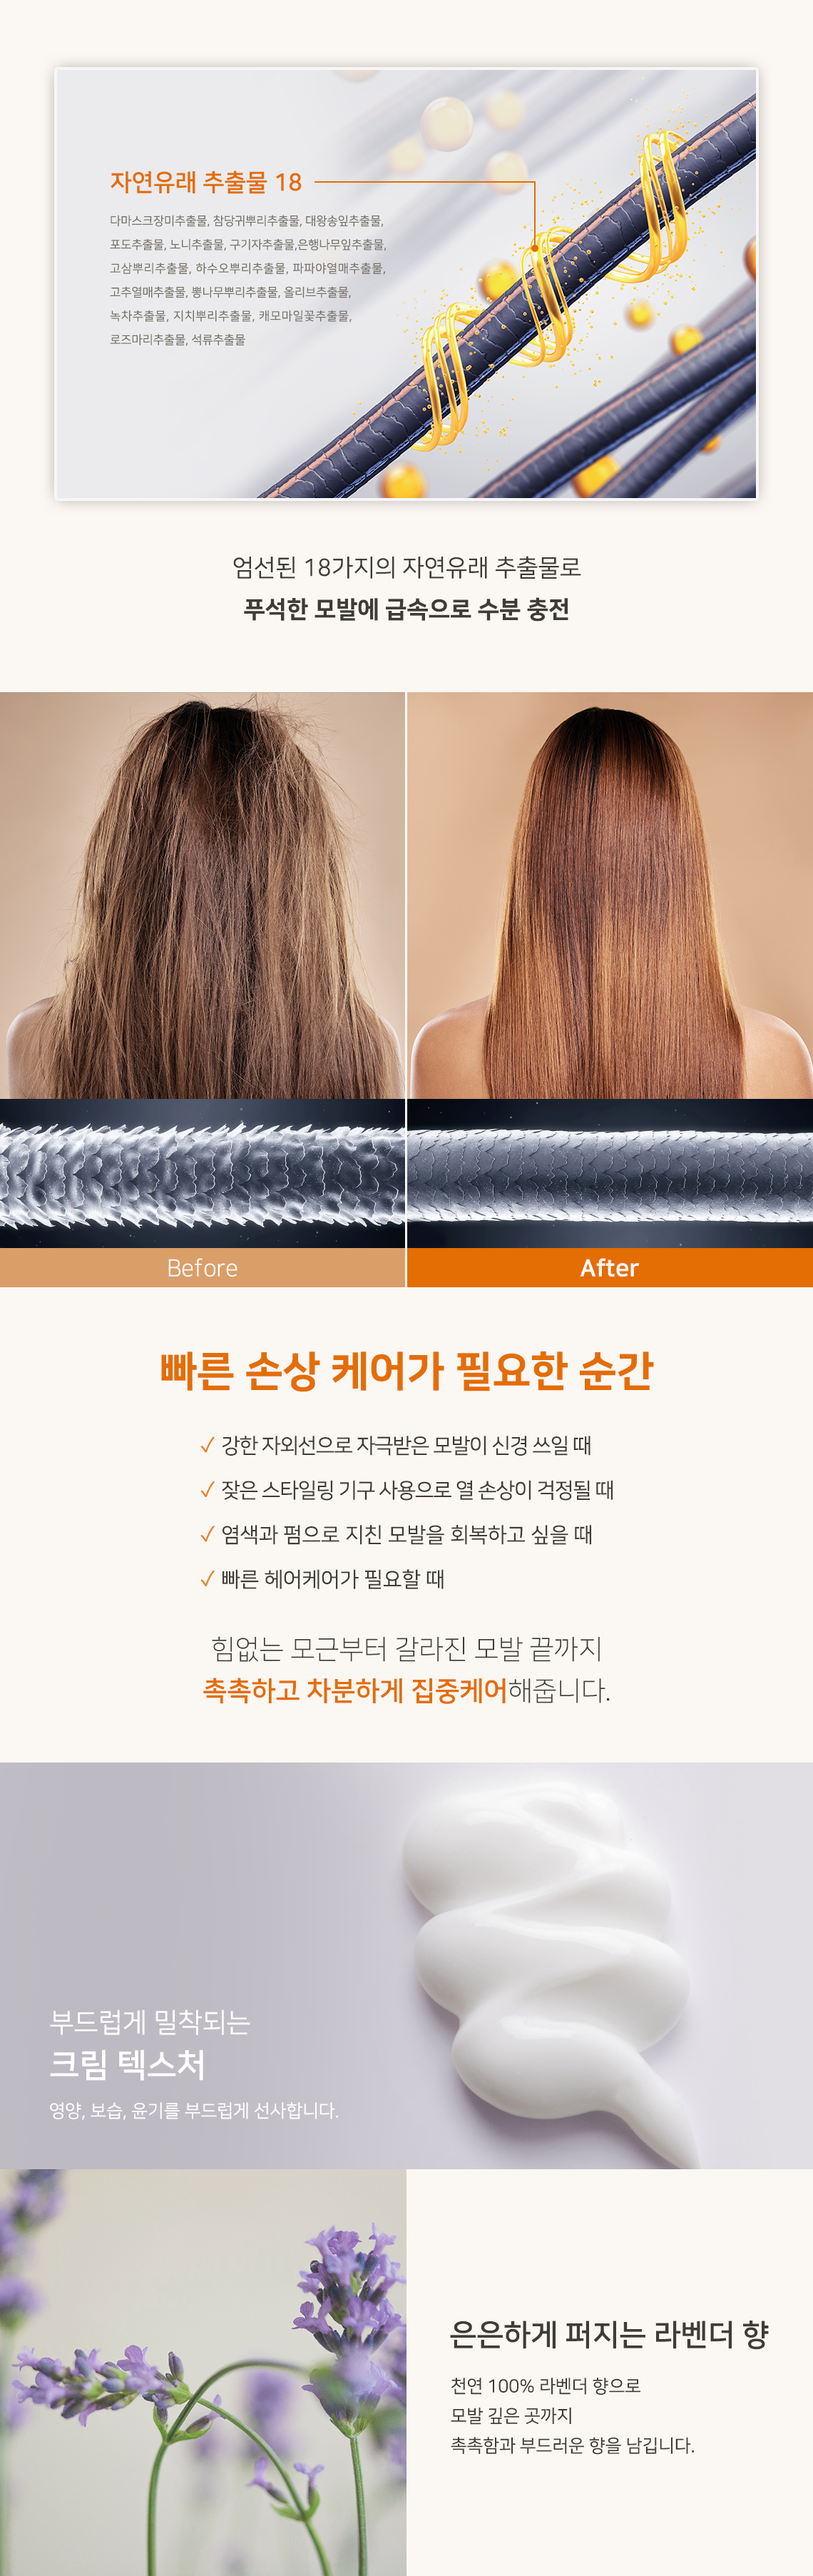
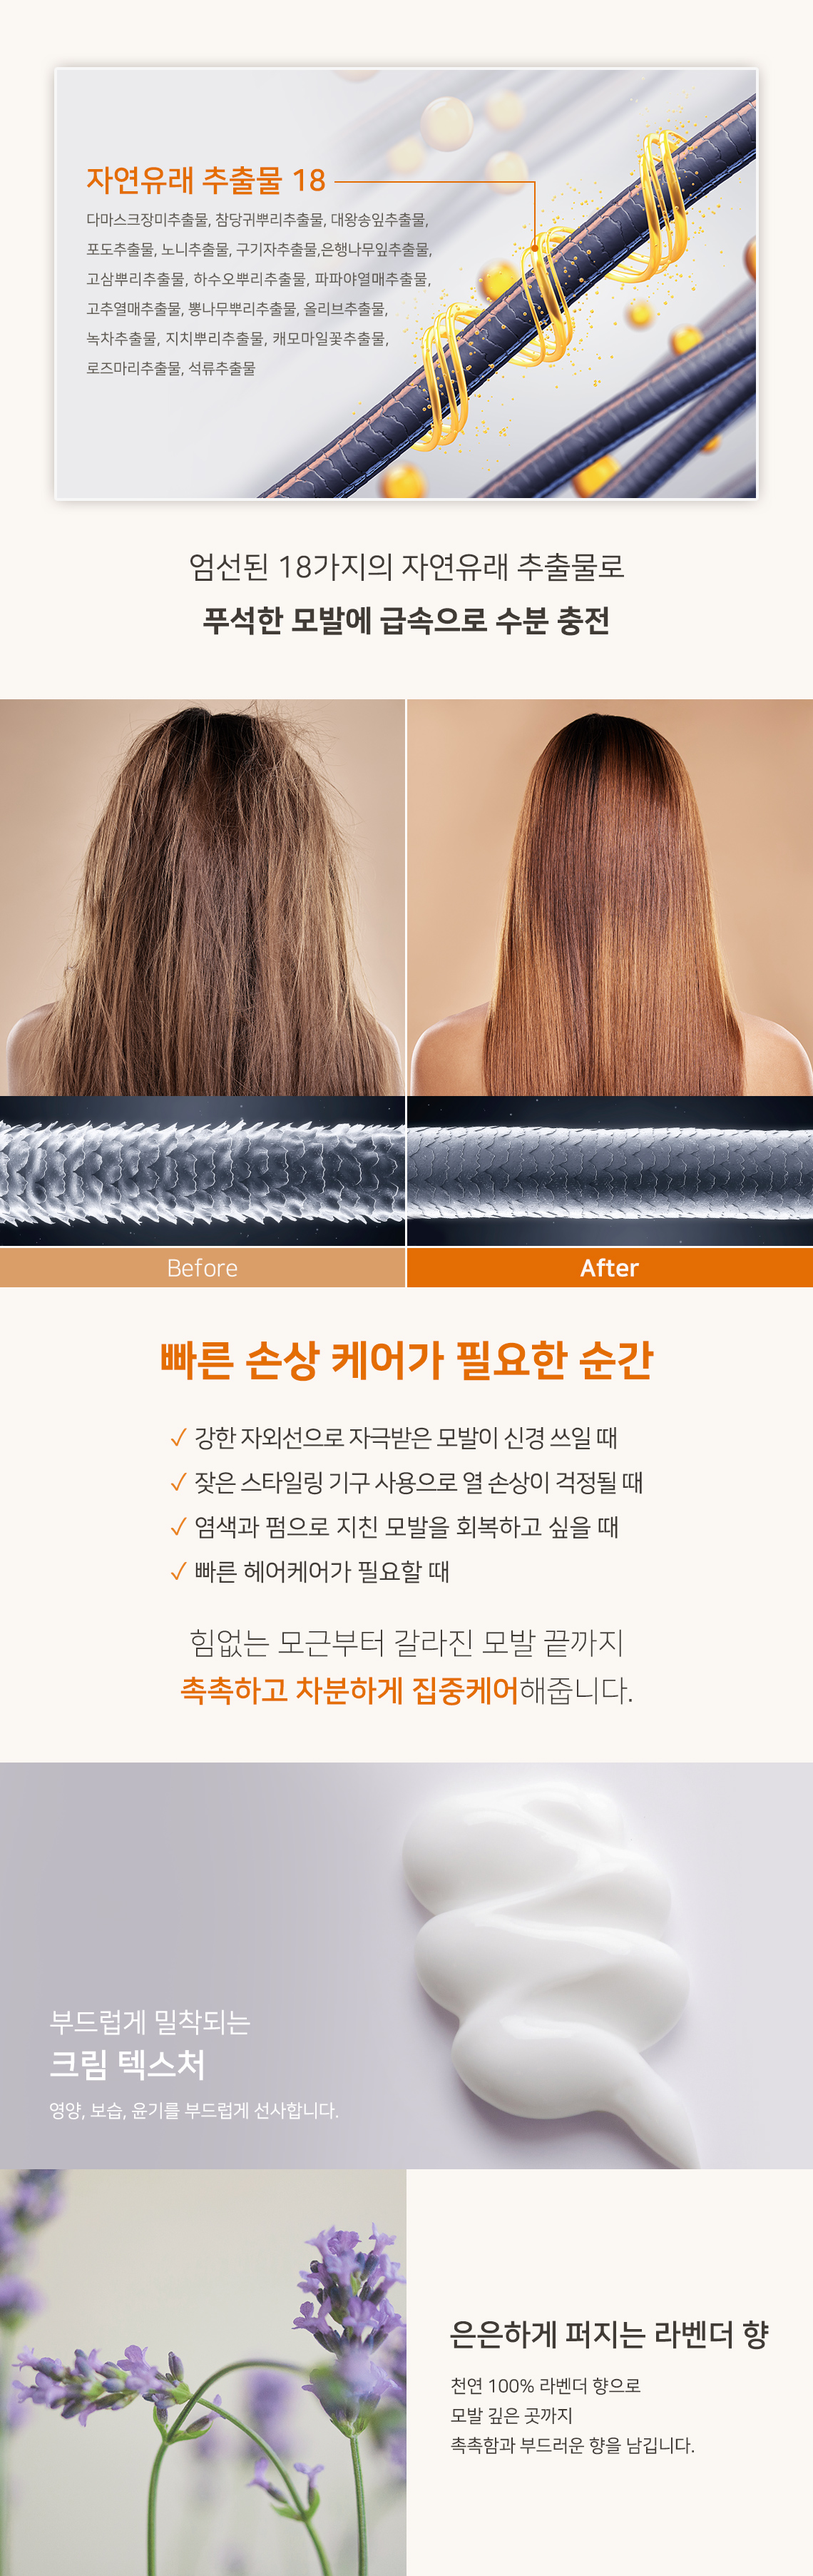
feat: All tasks up to now

diff --git a/src/pages/brand/index.tsx b/src/pages/brand/index.tsx
@@ -112,13 +112,19 @@ const BrandPage = () => {
                 </>
               ) : (
                 <>
-                  아임 오가닉은 자연의 힘으로 피부 건강을 책임지는 유기농 오일
-                  및 천연 제품을 제조하는 기업입니다. <br />
-                  저희의 이야기는 자연을 존중하고 자연의 시간을 따르는 깊은
-                  철학에서 시작됩니다. <br />
-                  자연이 제공하는 최고의 선물을 담아내기 위해 최선을 다하고
-                  있으며, <br />
-                  이는 저희의 모든 제품에 고스란히 반영되어 있습니다.
+                  <p>
+                    허브테라피 위드 코스메틱은 아임 오가닉 브랜드로 우즈벡에
+                    진출했습니다.
+                  </p>
+                  <ul>
+                    <li>한국에서 20년 연구 개발</li>
+                    <li>자신있는 제품 기술</li>
+                    <li>안전한 성분</li>
+                  </ul>
+                  <p>
+                    자연의 시간을 존중하는 기업이며 이는 아임 오가닉 제품에
+                    고스란히 반영되고 있습니다.
+                  </p>
                 </>
               )}
             </p>
@@ -135,12 +141,12 @@ const BrandPage = () => {
           className="second"
         >
           <div className="text__container">
-            <h1 className="title fade move animate1">
+            <h1 className="title center fade move animate1">
               {locale === 'en'
                 ? 'Product Quality and Reliability'
                 : '제품의 품질과 신뢰성'}
             </h1>
-            <p className="description fade move animate2">
+            <p className="description center fade move animate2">
               {locale === 'en' ? (
                 <>
                   Believing in and respecting the power of nature, I&apos;m
@@ -158,10 +164,10 @@ const BrandPage = () => {
                   자연에서 얻은 최고 품질의 재료들만을 사용하여 제품을
                   처방합니다. <br />
                   이러한 접근 방식은 피부에 순하면서도 효과적인 제품을 만들어
-                  내는 저희의 핵심 원칙입니다. <br />
-                  저희는 고객의 피부가 본연의 건강함을 되찾고 유지할 수 있도록
-                  돕기 위해 <br />
-                  끊임없이 연구하고 노력하겠습니다.
+                  내는 <br />
+                  저희의 핵심 원칙입니다. 저희는 고객의 피부가 본연의 건강함을
+                  되찾고 <br />
+                  유지할 수 있도록 돕기 위해 끊임없이 연구하고 노력하겠습니다.
                 </>
               )}
             </p>
@@ -177,69 +183,57 @@ const BrandPage = () => {
           height={`${windowHeight}px`}
           className="third"
         >
-          <div className="third__item">
-            <div className="left">
-              {isMobile || (
-                <ImageOverlayChild
-                  src="/images/brand/7.png"
-                  width="37.25rem"
-                  height="29.25rem"
-                />
+          <div className="text__container">
+            <h1 className="title fade move animate1">
+              {locale === 'en' ? (
+                'Ethical Certification and Sustainable Development'
+              ) : (
+                <>
+                  윤리적 인증과 <br />
+                  지속 가능한 발전
+                </>
               )}
-            </div>
-            <div className="right">
-              <h1 className="title fade move animate1">
-                {locale === 'en' ? (
-                  'Ethical Certification and Sustainable Development'
-                ) : (
-                  <>
-                    윤리적 인증과 <br />
-                    지속 가능한 발전
-                  </>
-                )}
-              </h1>
-              <p className="description fade move animate2">
-                {locale === 'en' ? (
-                  <>
-                    I&apos;m Organic realizes ethical and sustainable values
-                    with products that are certified organic, vegan, and halal.
-                    We are committed to not conducting animal testing and to not
-                    using animal-derived ingredients, protecting the environment
-                    and respecting the rights of all living beings.
-                  </>
-                ) : (
-                  <>
-                    아임 오가닉은 유기농, 비건 및 할랄 인증을 받은 제품으로,{' '}
-                    <br />
-                    윤리적이고 지속 가능한 가치를 실현하고 있습니다. <br />
-                    저희는 동물 실험을 하지 않으며, 동물성 성분을 사용하지 않는
-                    것을 <br />
-                    원칙으로 삼아 환경을 보호하고 모든 생명체의 권리를 존중하고
-                    있습니다.
-                  </>
-                )}
-              </p>
-            </div>
-            <div className="prev__button">←</div>
-            <div className="next__button">→</div>
+            </h1>
+            <p className="description fade move animate2">
+              {locale === 'en' ? (
+                <>
+                  I&apos;m Organic realizes ethical and sustainable values with
+                  products that are certified organic, vegan, and halal. We are
+                  committed to not conducting animal testing and to not using
+                  animal-derived ingredients, protecting the environment and
+                  respecting the rights of all living beings.
+                </>
+              ) : (
+                <>
+                  아임 오가닉은 유기농, 비건 및 할랄 인증을 받은 제품으로,{' '}
+                  <br />
+                  윤리적이고 지속 가능한 가치를 실현하고 있습니다. <br />
+                  저희는 동물 실험을 하지 않으며, 동물성 성분을 사용하지 않는
+                  것을 <br />
+                  원칙으로 삼아 환경을 보호하고 모든 생명체의 권리를 존중하고
+                  있습니다.
+                </>
+              )}
+            </p>
           </div>
+
+          <div className="prev__button">←</div>
+          <div className="next__button">→</div>
         </ImageOverlayChild>
 
         <ImageOverlayChild
           src={isMobile ? '/images/brand/mb_5.jpg' : '/images/brand/5.jpg'}
           width="100%"
           height={`${windowHeight}px`}
-          centerVertical
-          centerHorizontal
           className="forth"
         >
           <div className="text__container">
-            <h1 className="title fade move animate1">
+            <h1 className="title center fade move animate1">
               {locale === 'en'
                 ? 'Partnership with MEHRIGIYO'
                 : 'MEHRIGIYO와의 파트너십'}
             </h1>
-            <p className="description fade move animate2">
+            <p className="description center fade move animate2">
               {locale === 'en' ? (
                 <>
                   Our partnership with MEHRIGIYO in Uzbekistan is a key pillar
@@ -257,11 +251,12 @@ const BrandPage = () => {
                   중요한 축입니다. <br />
                   MEHRIGIYO의 건강한 유기농 원료로 스킨케어 제품 라인을
                   강화하고, <br />
-                  우수한 기술로 뛰어난 제품을 개발하고 있습니다. <br /> <br />
+                  우수한 기술로 뛰어난 제품을 개발하고 있습니다. <br />
+                  <br />
                   또한, 지역 사회와의 협력을 통해 지속 가능한 개발을 촉진하고
                   있으며, <br />
                   앞으로도 지속적으로 새로운 제품을 개발하여 고객에게 제공할
-                  것을 약속합니다.
+                  것을 약속합니다. <br />
                 </>
               )}
             </p>
@@ -396,11 +391,19 @@ const BrandPageStyled = styled.div`
   }
 
   .description {
+    display: flex;
+    flex-direction: column;
+    gap: 1rem;
+
     font-size: 1.8rem;
 
     font-family: Noto Sans;
     letter-spacing: -0.05%;
     line-height: 3.75rem;
+
+    ul {
+      padding-left: 2.5rem;
+    }
   }
 
   .first {
@@ -425,16 +428,14 @@ const BrandPageStyled = styled.div`
 
       .text__container {
         position: absolute;
-        right: 3.75rem;
-        bottom: 11.25rem;
+        right: 2.5rem;
+        bottom: 16rem;
 
         display: flex;
         flex-direction: column;
         justify-content: center;
 
         gap: 3.75rem;
-
-        width: 73rem;
 
         color: #fff;
         font-family: 'NotoSansKR-Medium';
@@ -443,7 +444,13 @@ const BrandPageStyled = styled.div`
           br {
             display: none;
           }
-          width: 53rem;
+          right: 0;
+
+          padding: 0 2.5rem;
+
+          .center {
+            text-align: center;
+          }
         }
       }
     }
@@ -451,56 +458,31 @@ const BrandPageStyled = styled.div`
 
   .third {
     .children {
-      width: 100%;
-      height: 100%;
-    }
+      position: relative;
 
-    .third__item {
-      display: flex;
-      justify-content: center;
-      align-items: center;
-
-      width: 100%;
       height: 100%;
 
-      color: #fff;
-      font-family: 'NotoSansKR-Medium';
+      .text__container {
+        position: absolute;
+        left: 6.25rem;
+        bottom: 16rem;
 
-      .left {
-        display: flex;
-        justify-content: center;
-        align-items: center;
-
-        width: 50%;
-        height: 100%;
-      }
-
-      .right {
         display: flex;
         flex-direction: column;
         justify-content: center;
+
         gap: 3.75rem;
 
-        width: 50%;
-        height: 100%;
-      }
+        color: #fff;
+        font-family: 'NotoSansKR-Medium';
 
-      @media (max-width: 960px) {
-        flex-direction: column;
-
-        .left {
-          width: 100%;
-          height: 50%;
-          padding-top: 15rem;
-        }
-
-        .right {
-          width: 100%;
-          height: 50%;
+        @media (max-width: 960px) {
+          /* br {
+            display: none;
+          } */
+          left: 0;
 
           padding: 0 2.5rem;
-
-          gap: 1.875rem;
         }
       }
     }
@@ -514,10 +496,9 @@ const BrandPageStyled = styled.div`
 
       .text__container {
         position: absolute;
-        right: 5rem;
-        bottom: 12.375rem;
-
-        width: 73rem;
+        right: 2.5rem;
+        top: 50%;
+        transform: translateY(-50%);
 
         display: flex;
         flex-direction: column;
@@ -532,15 +513,22 @@ const BrandPageStyled = styled.div`
           br {
             display: none;
           }
+          position: relative;
 
-          .title {
-            font-size: 4.5rem;
-          }
-
+          top: 0;
+          transform: none;
           right: 0;
 
-          width: 100%;
+          justify-content: end;
+
+          height: 100%;
+
           padding: 0 2.5rem;
+          padding-bottom: 15rem;
+
+          .center {
+            text-align: center;
+          }
         }
       }
     }

diff --git a/src/pages/index.tsx b/src/pages/index.tsx
@@ -259,6 +259,8 @@ const HomeLayoutStyled = styled.div`
       .description {
         display: flex;
         flex-direction: column;
+
+        margin-top: 1.5rem;
       }
     }
   }

diff --git a/src/styles/globals.css b/src/styles/globals.css
@@ -13,6 +13,10 @@
 }
 
 body {
+  max-width: 1920px;
+
+  margin: 0 auto;
+
   background-color: var(--content-main-color);
 }
 
